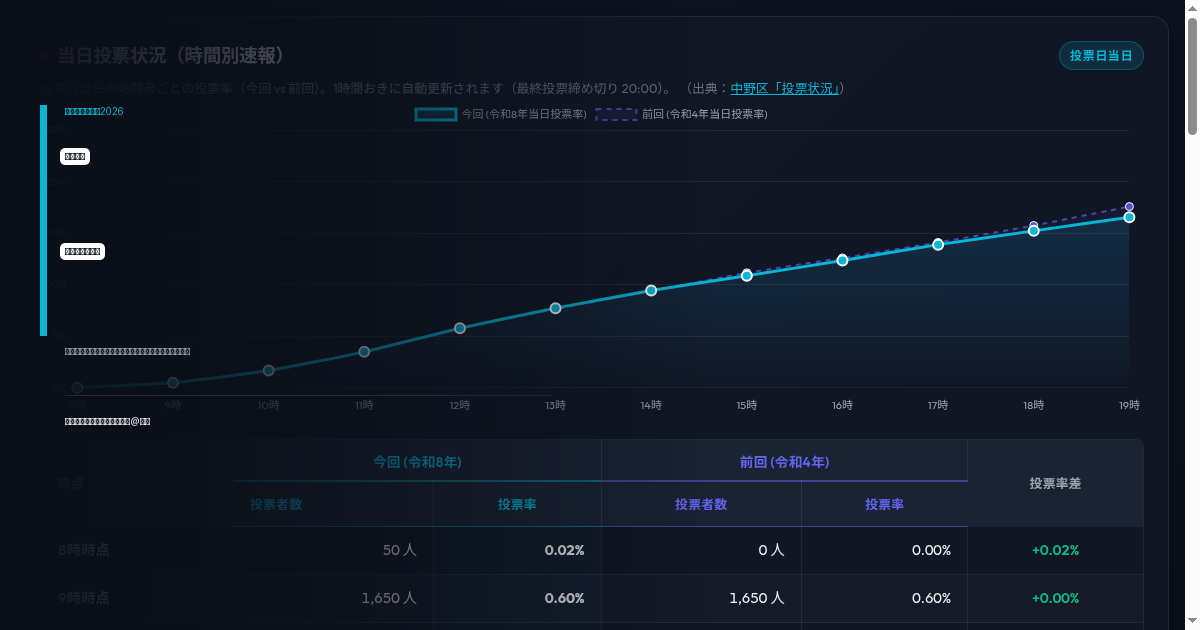
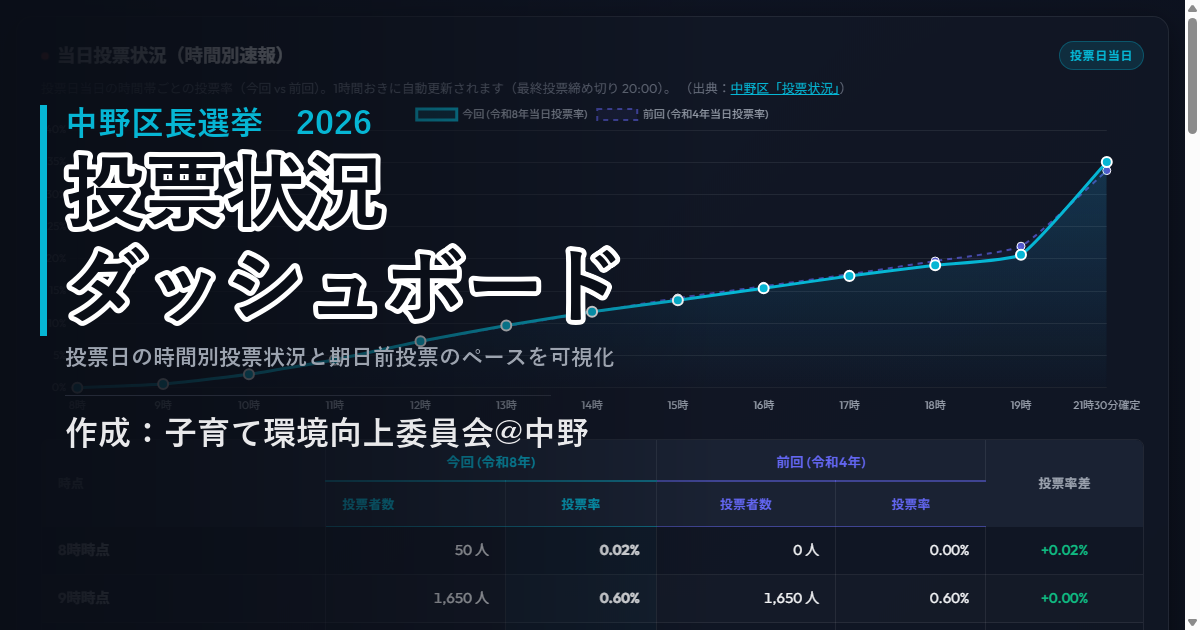
fix: 最終確定結果の表示における期日前投票の重複加算バグを修正し、最新OGP画像を再デプロイ

diff --git a/app.js b/app.js
@@ -256,13 +256,26 @@ document.addEventListener('DOMContentLoaded', () => {
         let previousSamePeriodTotal = earlyTotalPrevious;
 
         if (state.station === 'ALL' && latestTodayBulletin) {
-            // Add today's voting if it is for ALL stations
-            currentTotal = earlyTotalCurrent + todayCurrentVotes;
-            previousSamePeriodTotal = earlyTotalPrevious + todayPreviousVotes;
+            // Check if this is the final confirmed turnout (contains '確定' or '最終')
+            const isFinalConfirmed = latestTimeLabel.includes("確定") || latestTimeLabel.includes("最終");
 
-            if (lblCurrentTotalTitle) lblCurrentTotalTitle.textContent = "今回 投票者数合計 (期日前+当日)";
-            if (lblComparisonTitle) lblComparisonTitle.textContent = "前回同時期比 (期日前+当日)";
-            lblCurrentPeriod.textContent = `期日前(終了) + 当日 ${latestTimeLabel}時点`;
+            if (isFinalConfirmed) {
+                // If final confirmed, the number already includes early voting
+                currentTotal = todayCurrentVotes;
+                previousSamePeriodTotal = todayPreviousVotes;
+
+                if (lblCurrentTotalTitle) lblCurrentTotalTitle.textContent = "今回 投票者数合計 (最終確定)";
+                if (lblComparisonTitle) lblComparisonTitle.textContent = "前回同時期比 (最終確定)";
+                lblCurrentPeriod.textContent = `最終確定結果 (${latestTimeLabel})`;
+            } else {
+                // Add today's voting if it is for ALL stations (hourlyday-of bulletins)
+                currentTotal = earlyTotalCurrent + todayCurrentVotes;
+                previousSamePeriodTotal = earlyTotalPrevious + todayPreviousVotes;
+
+                if (lblCurrentTotalTitle) lblCurrentTotalTitle.textContent = "今回 投票者数合計 (期日前+当日)";
+                if (lblComparisonTitle) lblComparisonTitle.textContent = "前回同時期比 (期日前+当日)";
+                lblCurrentPeriod.textContent = `期日前(終了) + 当日 ${latestTimeLabel}時点`;
+            }
         } else {
             // Otherwise, show early voting only (station-specific or no today bulletin data)
             if (lblCurrentTotalTitle) lblCurrentTotalTitle.textContent = "今回 期日前投票者数累計";

diff --git a/index.html b/index.html
@@ -13,14 +13,14 @@
     <meta property="og:url" content="https://kawazusa.github.io/2026nakanovoting_rate/">
     <meta property="og:title" content="中野区長選挙 投票状況ダッシュボード (前回 vs 今回)">
     <meta property="og:description" content="前回（令和4年）と今回（令和8年）の中野区長選挙の投票状況（期日前・当日投票率）をリアルタイムに比較できるダッシュボードです。毎日21:15頃に最新データへ自動更新されます。">
-    <meta property="og:image" content="https://kawazusa.github.io/2026nakanovoting_rate/ogp-image.png?v=202606071203">
+    <meta property="og:image" content="https://kawazusa.github.io/2026nakanovoting_rate/ogp-image.png?v=202606072151">
 
     <!-- Twitter -->
     <meta name="twitter:card" content="summary_large_image">
     <meta name="twitter:url" content="https://kawazusa.github.io/2026nakanovoting_rate/">
     <meta name="twitter:title" content="中野区長選挙 投票状況ダッシュボード (前回 vs 今回)">
     <meta name="twitter:description" content="前回（令和4年）と今回（令和8年）の中野区長選挙の投票状況（期日前・当日投票率）をリアルタイムに比較できるダッシュボードです。毎日21:15頃に最新データへ自動更新されます。">
-    <meta name="twitter:image" content="https://kawazusa.github.io/2026nakanovoting_rate/ogp-image.png?v=202606071203">
+    <meta name="twitter:image" content="https://kawazusa.github.io/2026nakanovoting_rate/ogp-image.png?v=202606072151">
     
     <!-- Google Fonts -->
     <link rel="preconnect" href="https://fonts.googleapis.com">
@@ -31,7 +31,7 @@
     <script src="https://cdn.jsdelivr.net/npm/chart.js"></script>
     
     <!-- Custom CSS -->
-    <link rel="stylesheet" href="styles.css?v=202606071203">
+    <link rel="stylesheet" href="styles.css?v=202606072151">
 </head>
 <body>
     <div class="app-container">
@@ -331,7 +331,7 @@
     </div>
 
     <!-- Data & Script files -->
-    <script src="data.js?v=202606071203"></script>
-    <script src="app.js?v=202606071203"></script>
+    <script src="data.js?v=202606072151"></script>
+    <script src="app.js?v=202606072151"></script>
 </body>
 </html>

diff --git a/data.js b/data.js
@@ -115,6 +115,13 @@ const votingData = {
           "currentRate": 20.67,
           "previousVotes": 60100,
           "previousRate": 21.98
+      },
+      {
+          "time": "21時30分確定",
+          "currentVotes": 96478,
+          "currentRate": 35.05,
+          "previousVotes": 92174,
+          "previousRate": 33.72
       }
   ],
   
